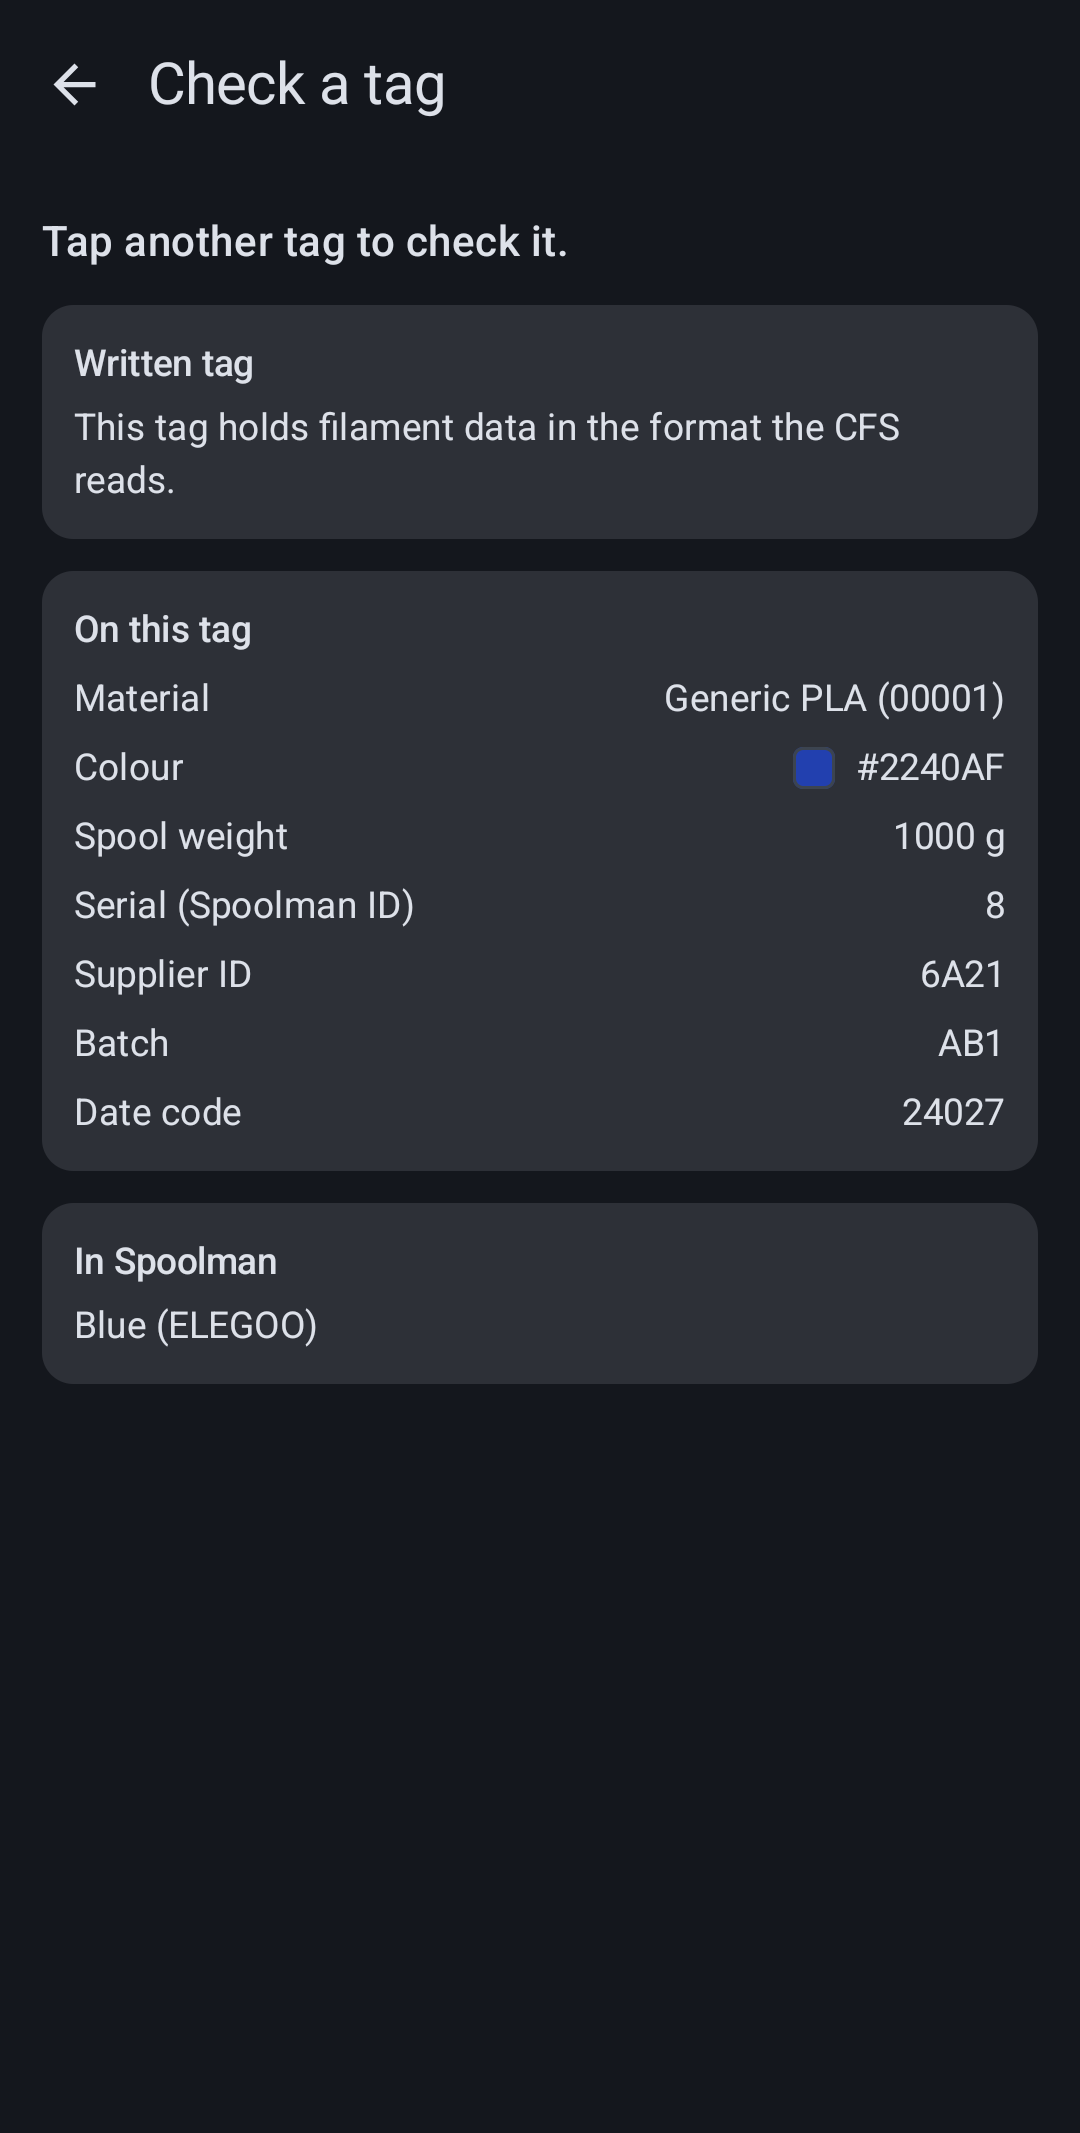
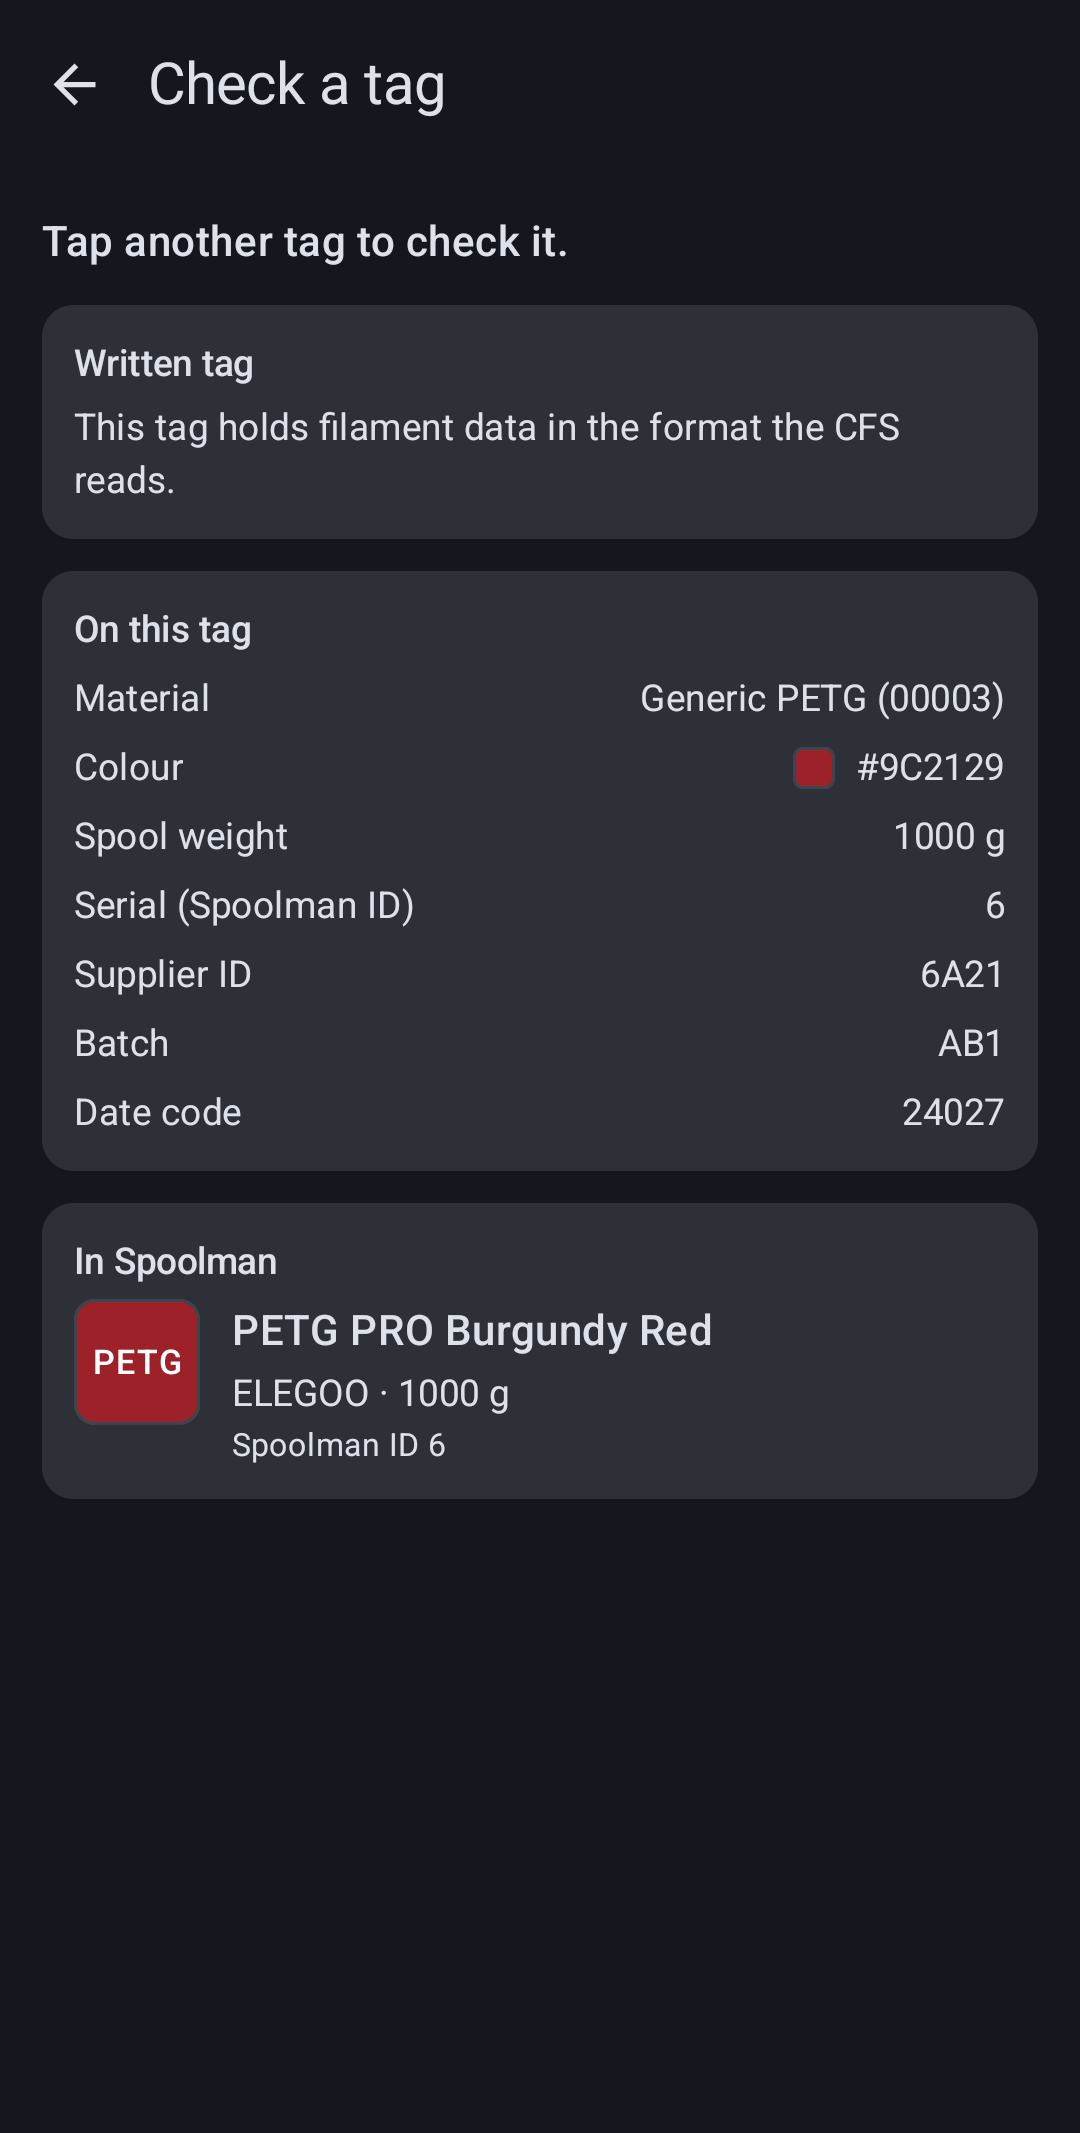
feat: improve read tag view

Changed region(s): [[0.0306, 0.5879, 0.9778, 0.7117], [0.5806, 0.3094, 0.7944, 0.3713], [0.825, 0.3094, 0.9167, 0.3713]]

diff --git a/src/app/src/main/java/ch/jeanrichard/nfcspoolwriter/ui/spoollist/SpoolSummary.kt b/src/app/src/main/java/ch/jeanrichard/nfcspoolwriter/ui/spoollist/SpoolSummary.kt
@@ -1,0 +1,54 @@
+package ch.jeanrichard.nfcspoolwriter.ui.spoollist
+
+import androidx.compose.foundation.layout.Arrangement
+import androidx.compose.foundation.layout.Column
+import androidx.compose.foundation.layout.Row
+import androidx.compose.foundation.layout.fillMaxWidth
+import androidx.compose.material3.MaterialTheme
+import androidx.compose.material3.Text
+import androidx.compose.runtime.Composable
+import androidx.compose.ui.Modifier
+import androidx.compose.ui.res.stringResource
+import androidx.compose.ui.unit.dp
+import ch.jeanrichard.nfcspoolwriter.R
+import ch.jeanrichard.nfcspoolwriter.domain.model.Spool
+
+/**
+ * One spool as the swatch and the three lines that go beside it. Shared with the read screen, so the
+ * spool a tag points at is presented exactly as the same spool is in the select list — the user is
+ * matching one against the other by eye.
+ *
+ * Carries no padding of its own: the list spaces its own rows, the read screen's card its contents.
+ */
+@Composable
+fun SpoolSummary(spool: Spool, modifier: Modifier = Modifier) {
+    Row(
+        modifier = modifier.fillMaxWidth(),
+        horizontalArrangement = Arrangement.spacedBy(12.dp),
+    ) {
+        SpoolSwatch(filament = spool.filament)
+        Column(verticalArrangement = Arrangement.spacedBy(2.dp)) {
+            Text(
+                text = spool.filament.name
+                    ?: spool.filament.material
+                    ?: stringResource(R.string.spools_unnamed),
+                style = MaterialTheme.typography.titleMedium,
+            )
+            Text(
+                text = listOfNotNull(
+                    spool.filament.vendor?.name,
+                    // The swatch already carries the material, so repeating it here would only be
+                    // noise — unless it was too long to fit and got cut short.
+                    spool.filament.material.takeIf { swatchLabel(it).truncated },
+                    spool.filament.fullSpoolWeightGrams?.let { "${it.toInt()} g" },
+                    spool.location,
+                ).joinToString(" · "),
+                style = MaterialTheme.typography.bodyMedium,
+            )
+            Text(
+                text = stringResource(R.string.spools_id, spool.id),
+                style = MaterialTheme.typography.bodySmall,
+            )
+        }
+    }
+}

diff --git a/src/app/src/main/java/ch/jeanrichard/nfcspoolwriter/ui/read/ReadTagScreen.kt b/src/app/src/main/java/ch/jeanrichard/nfcspoolwriter/ui/read/ReadTagScreen.kt
@@ -28,9 +28,9 @@ import androidx.compose.ui.unit.dp
 import androidx.lifecycle.compose.collectAsStateWithLifecycle
 import ch.jeanrichard.nfcspoolwriter.R
 import ch.jeanrichard.nfcspoolwriter.data.nfc.DeviceCompatibility
-import ch.jeanrichard.nfcspoolwriter.domain.model.Spool
 import ch.jeanrichard.nfcspoolwriter.ui.confirm.FieldRow
 import ch.jeanrichard.nfcspoolwriter.ui.nfc.NfcReaderEffect
+import ch.jeanrichard.nfcspoolwriter.ui.spoollist.SpoolSummary
 
 /**
  * Reports what is on a tag the user presents, and nothing else — no write, no key installation
@@ -218,18 +218,9 @@ private fun SpoolmanCard(lookup: SpoolLookup) {
                     style = MaterialTheme.typography.bodyMedium,
                 )
 
-                is SpoolLookup.Found -> {
-                    Text(
-                        text = spoolLabel(lookup.spool),
-                        style = MaterialTheme.typography.bodyMedium,
-                    )
-                    lookup.spool.location?.let { location ->
-                        Text(
-                            text = stringResource(R.string.read_spoolman_location, location),
-                            style = MaterialTheme.typography.bodySmall,
-                        )
-                    }
-                }
+                // The same presentation as the spool select list, so the spool the tag points at can
+                // be matched against the one the user picked there without re-reading it.
+                is SpoolLookup.Found -> SpoolSummary(spool = lookup.spool)
 
                 is SpoolLookup.Unavailable -> Text(
                     text = lookup.text,
@@ -238,14 +229,6 @@ private fun SpoolmanCard(lookup: SpoolLookup) {
             }
         }
     }
-}
-
-@Composable
-private fun spoolLabel(spool: Spool): String {
-    val name = spool.filament.name
-        ?: spool.filament.material
-        ?: stringResource(R.string.spools_unnamed)
-    return spool.filament.vendor?.name?.let { "$name ($it)" } ?: name
 }
 
 private const val OPAQUE = 0xFF000000.toInt()

diff --git a/src/app/src/main/java/ch/jeanrichard/nfcspoolwriter/ui/spoollist/SpoolListScreen.kt b/src/app/src/main/java/ch/jeanrichard/nfcspoolwriter/ui/spoollist/SpoolListScreen.kt
@@ -6,7 +6,6 @@ import androidx.compose.foundation.layout.Box
 import androidx.compose.foundation.layout.Column
 import androidx.compose.foundation.layout.fillMaxSize
 import androidx.compose.foundation.layout.fillMaxWidth
-import androidx.compose.foundation.layout.Row
 import androidx.compose.foundation.layout.padding
 import androidx.compose.foundation.lazy.LazyColumn
 import androidx.compose.foundation.lazy.items
@@ -147,38 +146,12 @@ fun SpoolListScreen(
 
 @Composable
 private fun SpoolRow(spool: Spool, onClick: () -> Unit) {
-    Row(
+    SpoolSummary(
+        spool = spool,
         modifier = Modifier
-            .fillMaxWidth()
             .clickable(onClick = onClick)
             .padding(horizontal = 16.dp, vertical = 12.dp),
-        horizontalArrangement = Arrangement.spacedBy(12.dp),
-    ) {
-        SpoolSwatch(filament = spool.filament)
-        Column(verticalArrangement = Arrangement.spacedBy(2.dp)) {
-            Text(
-                text = spool.filament.name
-                    ?: spool.filament.material
-                    ?: stringResource(R.string.spools_unnamed),
-                style = MaterialTheme.typography.titleMedium,
-            )
-            Text(
-                text = listOfNotNull(
-                    spool.filament.vendor?.name,
-                    // The swatch already carries the material, so repeating it here would only be
-                    // noise — unless it was too long to fit and got cut short.
-                    spool.filament.material.takeIf { swatchLabel(it).truncated },
-                    spool.filament.fullSpoolWeightGrams?.let { "${it.toInt()} g" },
-                    spool.location,
-                ).joinToString(" · "),
-                style = MaterialTheme.typography.bodyMedium,
-            )
-            Text(
-                text = stringResource(R.string.spools_id, spool.id),
-                style = MaterialTheme.typography.bodySmall,
-            )
-        }
-    }
+    )
 }
 
 @Composable

diff --git a/src/app/src/main/java/ch/jeanrichard/nfcspoolwriter/ui/settings/SettingsScreen.kt b/src/app/src/main/java/ch/jeanrichard/nfcspoolwriter/ui/settings/SettingsScreen.kt
@@ -111,9 +111,9 @@ fun SettingsScreen(
             style = MaterialTheme.typography.bodySmall,
         )
 
-        // The harness is still the only way to run the outstanding printer-validation checks in
-        // TODO.md §2, so it stays reachable in debug builds rather than being
-        // deleted. It shows raw hex and trailer bits, so it must not ship to store users.
+        // The harness is still the only way to run the outstanding printer-validation checks, so it
+        // stays reachable in debug builds rather than being deleted. It shows raw hex and trailer
+        // bits, so it must not ship to store users.
         if (onOpenHarness != null) {
             OutlinedButton(onClick = onOpenHarness) {
                 Text(stringResource(R.string.settings_open_harness))

diff --git a/src/app/src/main/java/ch/jeanrichard/nfcspoolwriter/ui/debug/TagHarnessViewModel.kt b/src/app/src/main/java/ch/jeanrichard/nfcspoolwriter/ui/debug/TagHarnessViewModel.kt
@@ -20,12 +20,12 @@ import kotlinx.coroutines.flow.update
 import kotlinx.coroutines.launch
 
 /**
- * Development harness for running `TODO.md` §2 before the real write flow exists.
+ * Development harness for running the manual hardware checks.
  *
  * **Development tool, not part of the product flow.** The real write path is the browse → select →
  * confirm → write screens; this exists because validating the *format* means controlling every byte and
  * seeing raw tag contents, which the real flow deliberately does not allow. Reachable from Settings so
- * the outstanding checks in `TODO.md` §2 can still be run.
+ * the outstanding hardware checks can still be run.
  */
 class TagHarnessViewModel(
     private val readerWriter: MifareTagReaderWriter,

diff --git a/src/app/src/main/java/ch/jeanrichard/nfcspoolwriter/data/nfc/TagDiagnostics.kt b/src/app/src/main/java/ch/jeanrichard/nfcspoolwriter/data/nfc/TagDiagnostics.kt
@@ -8,10 +8,9 @@ import kotlinx.coroutines.withContext
 import java.io.IOException
 
 /**
- * Produces a raw, human-readable dump of a tag for the manual hardware checklist
- * (`TODO.md` §2).
+ * Produces a raw, human-readable dump of a tag for the manual hardware checks.
  *
- * Exists because several checklist items can only be answered by looking at bytes the normal read
+ * Exists because several of those checks can only be answered by looking at bytes the normal read
  * path deliberately hides — in particular the sector-1 trailer's access bits, which this format must
  * preserve and which a bug could silently clobber, and the raw reserve field, whose acceptance by
  * real hardware is recorded in DESIGN.md DEC-01, "serial number and reserve fields".

diff --git a/src/app/src/main/java/ch/jeanrichard/nfcspoolwriter/data/nfc/MifareClassicSession.kt b/src/app/src/main/java/ch/jeanrichard/nfcspoolwriter/data/nfc/MifareClassicSession.kt
@@ -9,8 +9,8 @@ import java.io.IOException
  *
  * Deliberately thin — it forwards calls and nothing else. Every decision worth testing lives in
  * [MifareTagReaderWriter]; this class is the one piece Phase 2 cannot cover with unit tests, so the
- * less it does, the smaller the untested surface. Its behaviour is checked by the manual hardware
- * checklist in `TODO.md` §2.
+ * less it does, the smaller the untested surface. Its behaviour is checked manually on real
+ * hardware.
  */
 class MifareClassicSession private constructor(
     private val tech: MifareClassic,

diff --git a/src/app/src/main/java/ch/jeanrichard/nfcspoolwriter/ui/debug/TagHarnessScreen.kt b/src/app/src/main/java/ch/jeanrichard/nfcspoolwriter/ui/debug/TagHarnessScreen.kt
@@ -31,8 +31,8 @@ import ch.jeanrichard.nfcspoolwriter.domain.model.WeightBucket
 import ch.jeanrichard.nfcspoolwriter.ui.nfc.NfcReaderEffect
 
 /**
- * Temporary development screen for running `TODO.md` §2. Replaced by the real
- * multi-step flow in Phase 5 — see [TagHarnessViewModel] for why it exists.
+ * Temporary development screen for running the manual hardware checks — see [TagHarnessViewModel]
+ * for why it exists.
  */
 @Composable
 fun TagHarnessScreen(

diff --git a/REQUIREMENTS.md b/REQUIREMENTS.md
@@ -25,7 +25,7 @@ between documents. Section numbers, by contrast, are positional — cite the ID 
 requirement from code comments, commits or other documents.
 
 Companion documents: [DESIGN.md](DESIGN.md) (architecture and settled decisions),
-[TODO.md](TODO.md) (all open work), [TAG_FORMAT_SPEC.md](TAG_FORMAT_SPEC.md) (tag payload format).
+[TAG_FORMAT_SPEC.md](TAG_FORMAT_SPEC.md) (tag payload format).
 
 ## 2. Background / Prior Art
 
@@ -164,7 +164,7 @@ devices. The meaningful signal is the **`com.nxp.mifare`** system feature.
   that moment could be a write flow armed for a different spool.
 - `UI-04` — **Raw tag tooling:** a development harness for reading and diagnosing raw tag contents exists. It is
   not a v1 user-facing requirement, but is retained because it is the only way to run the outstanding
-  hardware validation in [TODO.md](TODO.md) §2. The user-facing read
+  manual hardware validation. The user-facing read
   & check mode above does not replace it: the harness shows trailer/access bits and raw hex that the
   read mode deliberately hides.
 
@@ -201,7 +201,6 @@ devices. The meaningful signal is the **`com.nxp.mifare`** system feature.
   failure into a replaceable credential. The APK attached to a GitHub release is signed with the
   upload key, not the app signing key, so a sideloaded install cannot be upgraded in place by the
   Play build.
-  Rationale, risks and the Console paperwork live in [store/STORE_PLAN.md](store/STORE_PLAN.md).
 - `NFR-07` — **Language/tooling:** Kotlin, Jetpack Compose (see [DESIGN.md](DESIGN.md) for
   architecture).
 - `NFR-08` — **Required hardware:** declare `<uses-feature android:name="android.hardware.nfc" android:required="true">`
@@ -254,8 +253,7 @@ The guiding rule is *unit test everything where it's possible to, skip UI tests 
 - `NFR-19` — **Compose UI** — explicitly not automated-tested. Screens are kept thin (render
   ViewModel state, forward events) so there's nothing UI-only worth testing; verified manually instead.
 - `NFR-20` — **`MifareClassicSession` adapter and full hardware round-trips** — can't be unit
-  tested by definition (real NFC hardware + a real tag), covered by the manual checks in
-  [TODO.md](TODO.md) §2.
+  tested by definition (real NFC hardware + a real tag), covered by manual checks on a device.
 
 ### 7.5 Maintainability
 - `NFR-21` — Minimal dependency surface, no premature abstraction —

diff --git a/README.md b/README.md
@@ -70,7 +70,7 @@ There is no warranty of any kind — see sections 15 and 16 of the [LICENSE](LIC
 
 ## Installing
 
-Not yet published — the first release is still in progress ([TODO.md](TODO.md) §3). When it lands:
+Not yet published — the first release is still in progress. When it lands:
 
 - **Google Play** will be the normal route, and its device filter hides phones that cannot run the app.
 - **A sideloadable APK** is attached to each [GitHub release](https://github.com/mjeanrichard/nfc-spool-writer/releases)
@@ -110,7 +110,6 @@ The design intent is written down rather than inferred from the code:
 | [REQUIREMENTS.md](REQUIREMENTS.md) | Every functional and non-functional requirement, with stable `HW-`/`REQ-`/`UI-`/`NFR-` identifiers |
 | [DESIGN.md](DESIGN.md) | Architecture and settled decisions |
 | [TAG_FORMAT_SPEC.md](TAG_FORMAT_SPEC.md) | The tag payload format, key derivation and encryption, with test vectors |
-| [TODO.md](TODO.md) | All open work, including the manual hardware validation matrix |
 | [AGENTS.md](AGENTS.md) | Working agreements for coding agents in this repo |
 | [SECURITY.md](SECURITY.md) | How to report a vulnerability, and what is deliberately out of scope |
 

diff --git a/DESIGN.md b/DESIGN.md
@@ -4,8 +4,6 @@ Companion to [REQUIREMENTS.md](REQUIREMENTS.md), which this document assumes as 
 say *what* the app must do, this says *how* it is built and *why* the non-obvious choices were made.
 Tech-stack choices below (Kotlin, Compose, sideload-first distribution) are also reflected there.
 
-Outstanding work is not tracked here — see [TODO.md](TODO.md).
-
 The `DEC-nn` identifiers in §2 follow the scheme defined in [REQUIREMENTS.md §1.1](REQUIREMENTS.md);
 they are stable and travel with the decision, so they stay valid even though the text moved here.
 
@@ -118,7 +116,7 @@ WriteScreen
 - No Espresso/instrumented UI tests — per explicit instruction, UI tests are not needed. Compose
   screens stay thin (state in, events out) precisely so nothing important is *only* verifiable
   through the UI layer; the NFC-hardware path also can't be meaningfully automated regardless, so
-  both get the manual checks in [TODO.md](TODO.md) instead.
+  both get manual checks on a device instead.
 
 ## 2. Decisions
 

diff --git a/AGENTS.md b/AGENTS.md
@@ -50,7 +50,7 @@ the Bash tool already starts in the repo root, and the scripts resolve their own
 | Anything else adb | `scripts/adb.sh <args>` |
 
 `scripts/check.sh` runs `assembleDebug` + `testDebugUnitTest` + `lintDebug`. That is the bar for
-calling a TODO.md item done — note it includes **lint**, which the two Gradle tasks alone do not.
+calling a change done — note it includes **lint**, which the two Gradle tasks alone do not.
 
 ## Tests
 
@@ -73,8 +73,8 @@ touching tags therefore needs a real device:
    the only way to capture a full diagnostic dump, since the on-screen copy is wider than the screen.
 4. `scripts/adb.sh logcat -d -b crash` for a crash.
 
-Outstanding manual checks live in `TODO.md` §2. When a check needs a tag this project
-does not have, record it as **untested** — never as assumed-passing.
+When a check needs a tag this project does not have, record it as **untested** — never as
+assumed-passing.
 
 ## Comments
 
